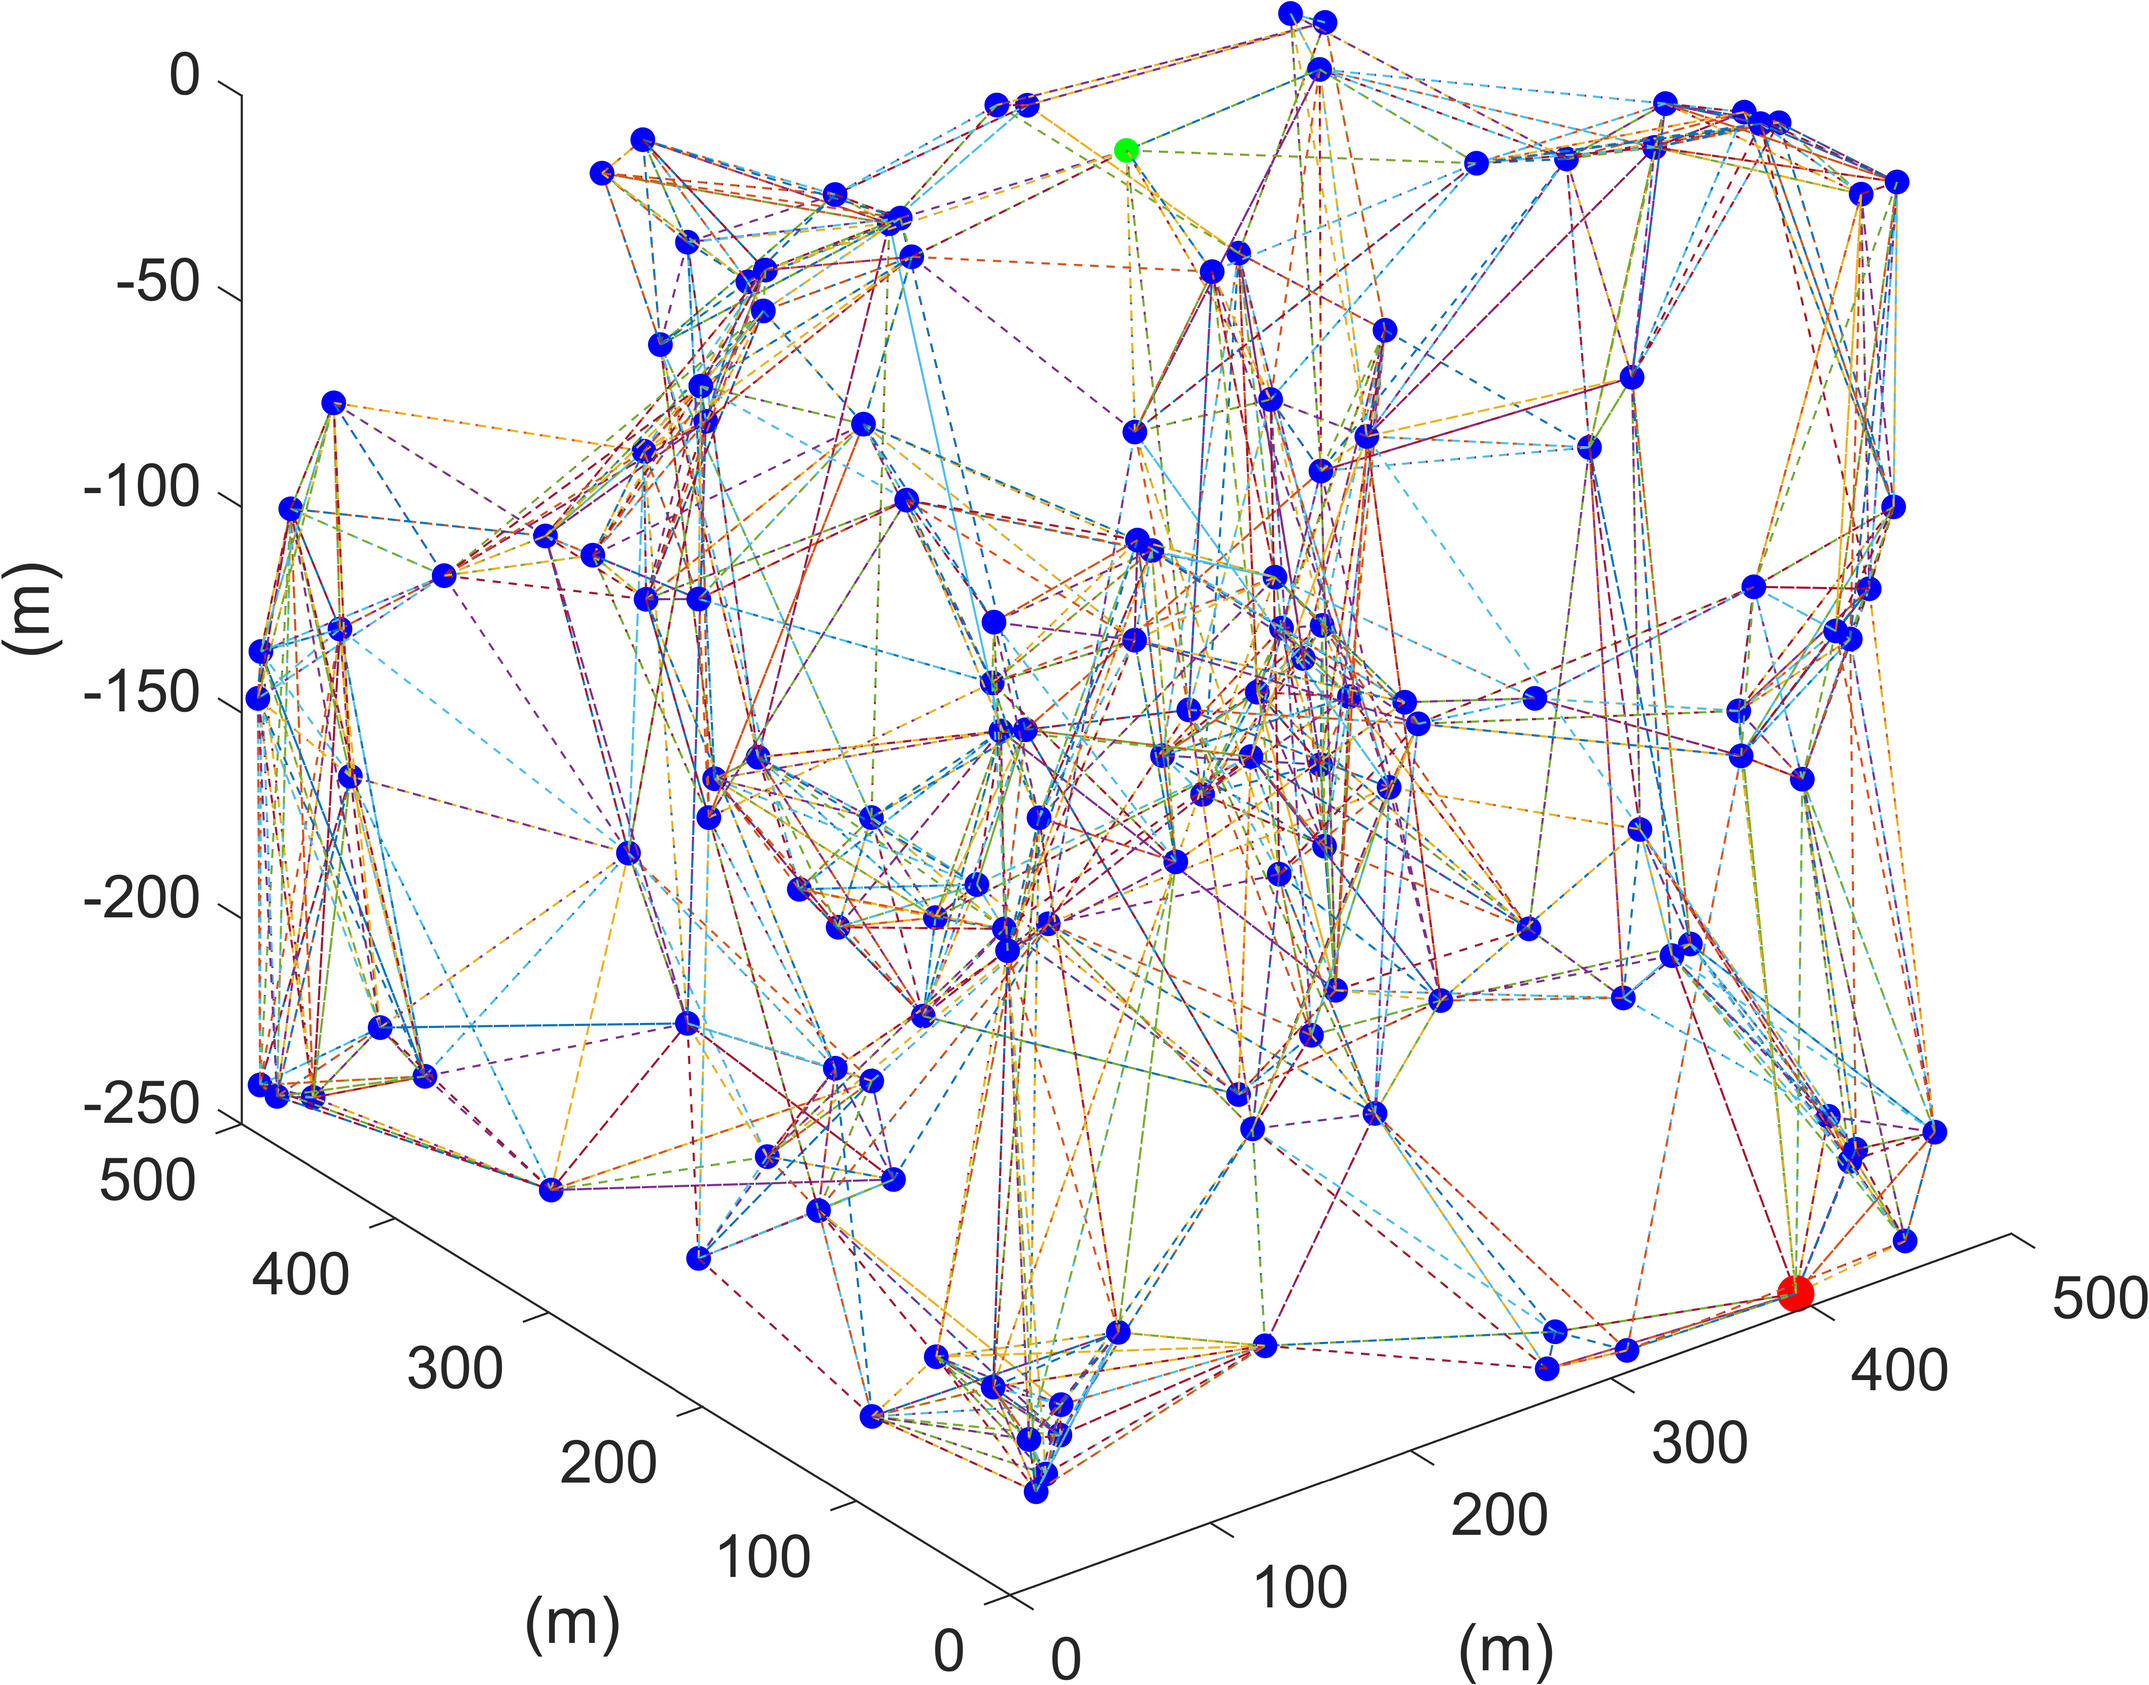
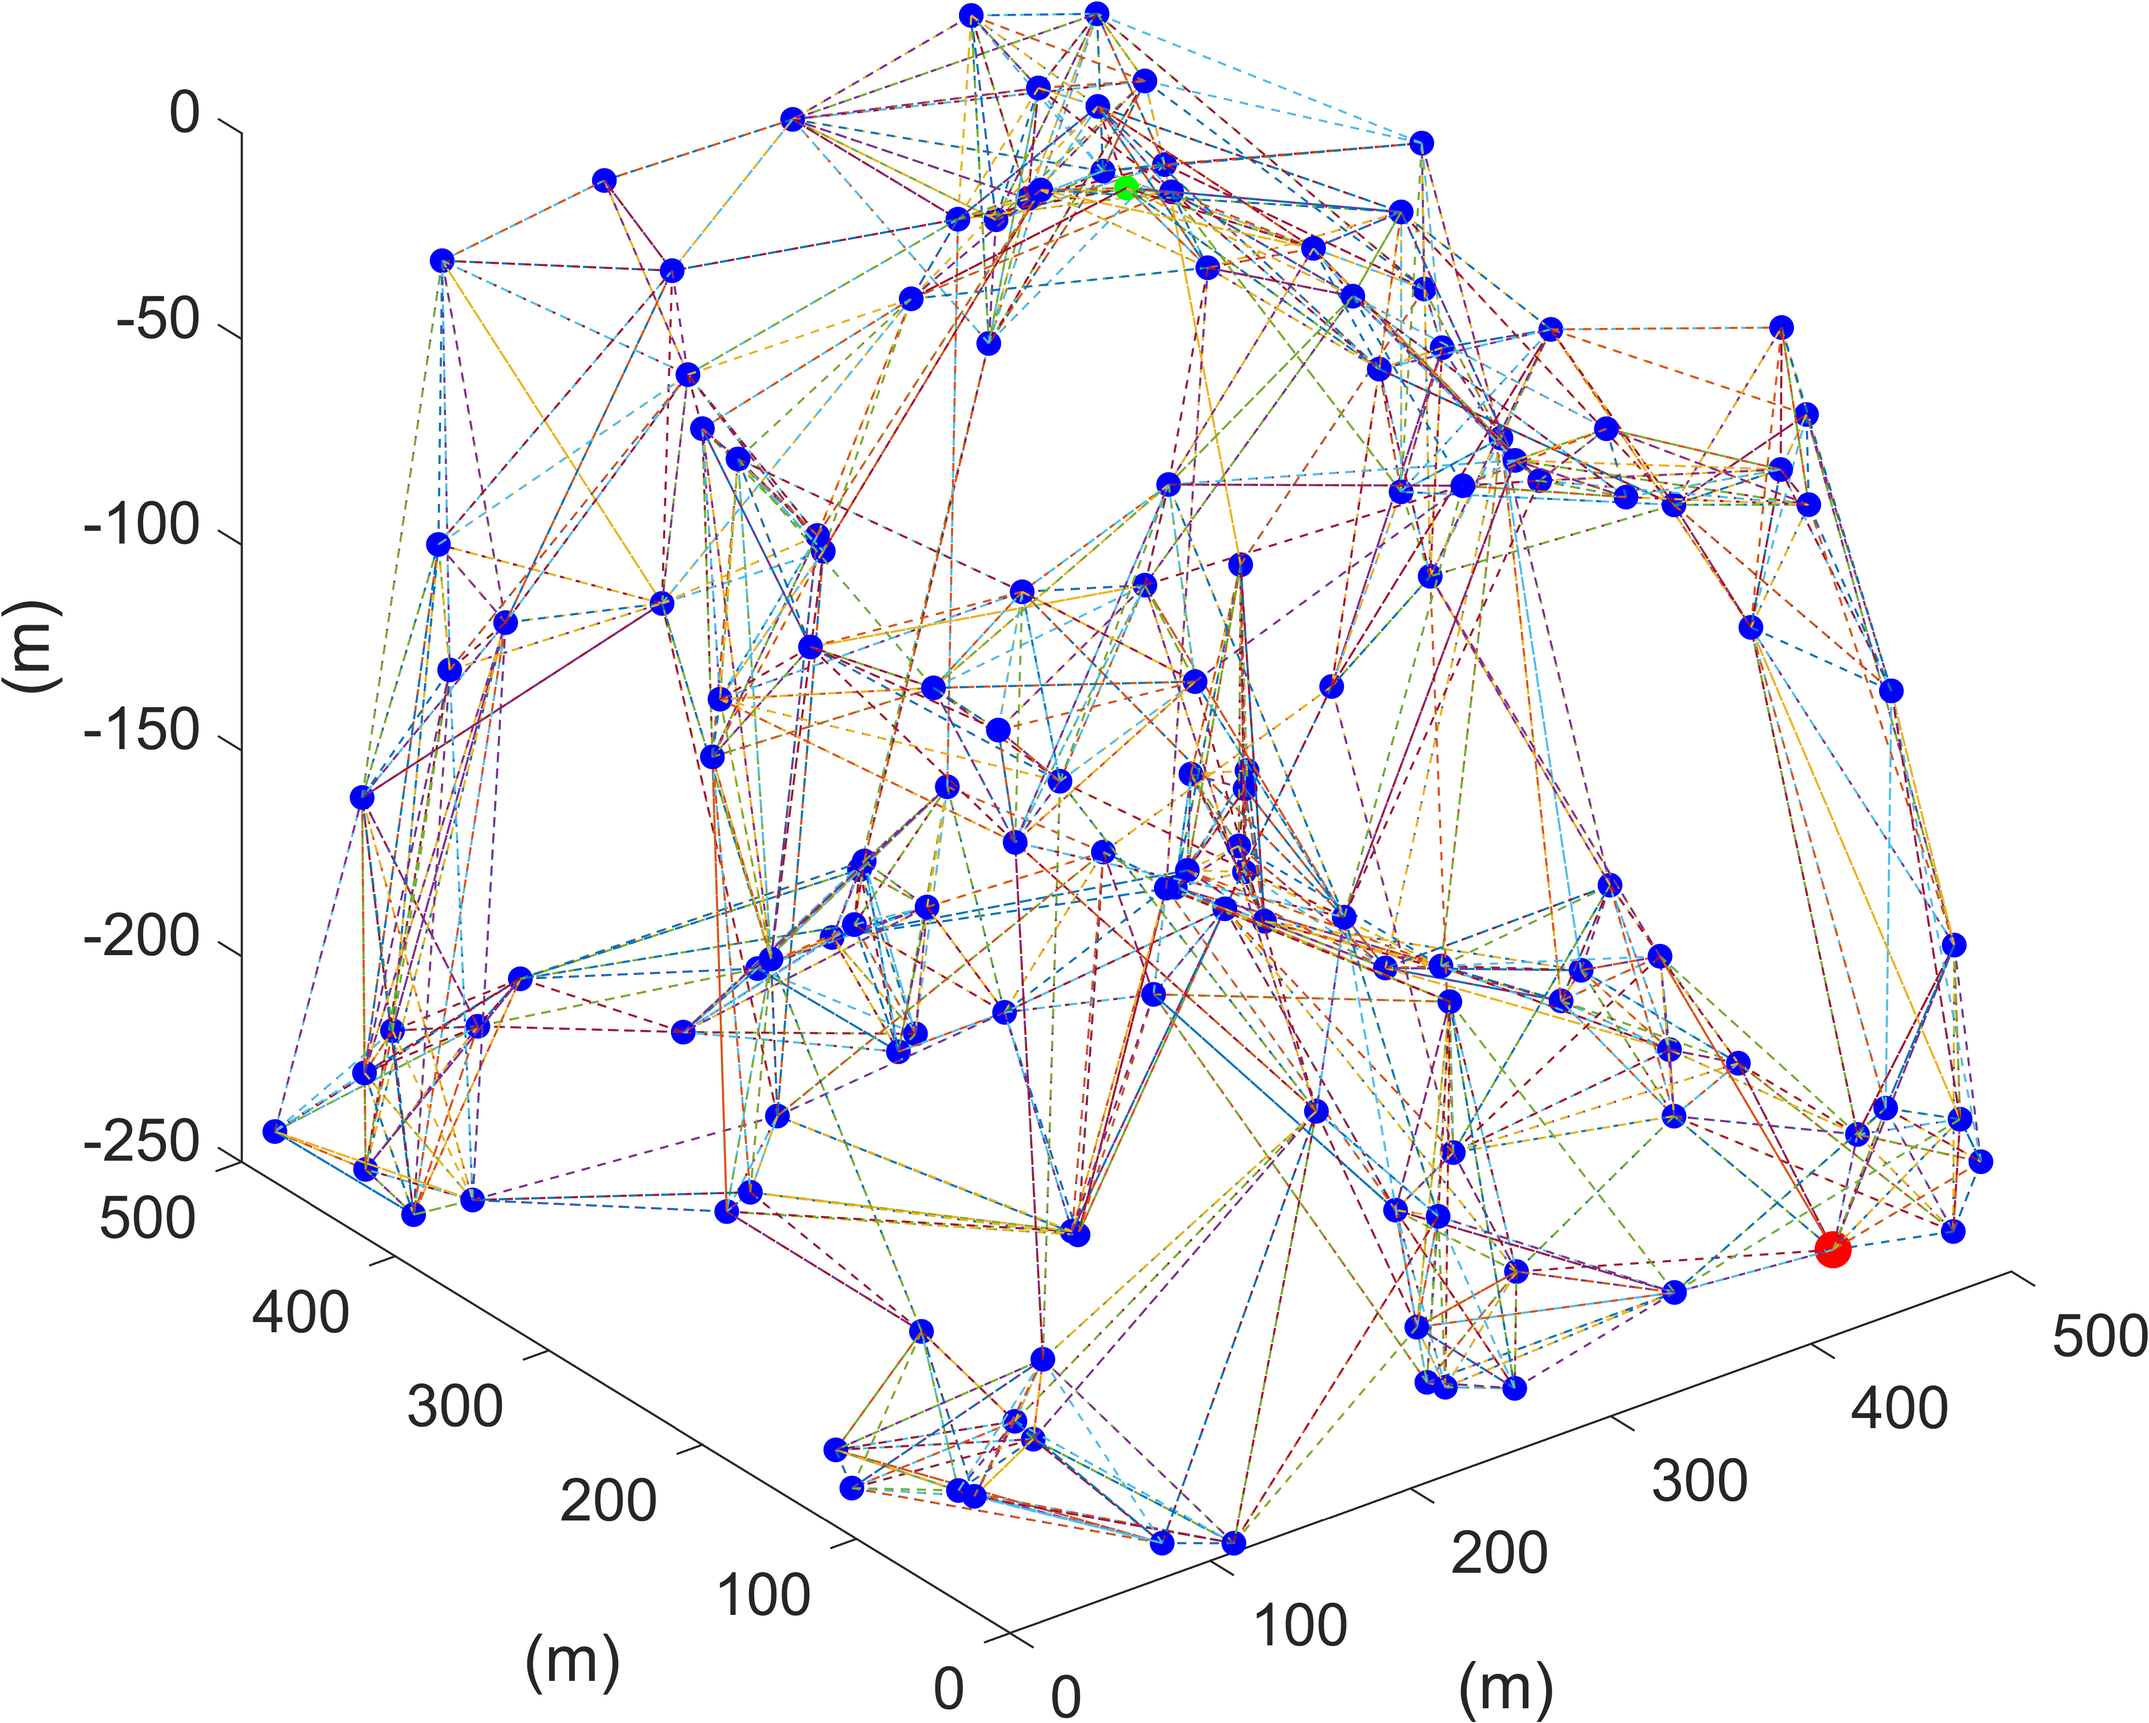
ADPR 1.1
* Added global parameters to finetune Algorithm 2 behavior.
* Improved Algorithm 3 behavior by adding two initial points before applying polynomial fitting

diff --git a/uan_adpr_main.m b/uan_adpr_main.m
@@ -2,6 +2,10 @@ clear
 clc
 close all
 
+javarmpath('.\bin');
+javaaddpath('.\bin');
+import uansim.*
+
 % load("pos_data.mat", "pos_data");
 % pos_data=pos_data(1,:);
 % pos_data=pos_data(:,1:1000);
@@ -9,32 +13,42 @@ close all
 
 load("good_pos_data.mat", "good_pos_data");
 pos_data=good_pos_data(2:4,1:100);
-pos_data=good_pos_data(2:4,2);
-
 dispTopology=false;
 debugSimulation=false;
+dispDetailedResults=false;
+dispSummaryResults=true;
+Networks=1:100;
 
-javarmpath('.\bin');
-javaaddpath('.\bin');
-import uansim.*
-
-algorithms={@updateForwardingProbability1,@updateForwardingProbability2,@updateForwardingProbability3};
+algorithms={@updateForwardingProbability1,@updateForwardingProbability2,@updateForwardingProbabilityPolynomialFitting};
 updateForwardingProbability=algorithms{3};
+global polynomialDegree
+polynomialDegree=4;
+global eta1
+global eta2
+K=0.5;
+eta1=K^2+0.1;
+eta2=eta1;
+
+
+for net= Networks   %Network #
+pos_data=good_pos_data(2:4,net);   %Network #4, #9 polyfit fails when degree>3
+                                %Network #11, #12 attack failed
 
 %   network_density number_of_nodes min_number_of_neighbors
 experiments = [
 ...    4	28	3 1
     5	47	4 0.9
+    8	75	7 0.5
+    15	140	9 0.3
 ...    6	57	5 1
 ...    7	66	6 1
-    8	75	7 0.5
 ...    9	85	8 1
-    15	140	9 0.3
 ];
 
 %Result columns
 D=[]; p=[]; attacks=[]; nodes=[]; src_deg=[]; genrtd=[]; sent=[];
 recved=[]; forwd=[]; pktcost=[]; e2edly=[]; fintim=[]; maxpktcost=[];
+masterResults= table(D, p, attacks, recved, forwd, pktcost, maxpktcost, e2edly, fintim);
 
 %Max # of attackers
 A=1;
@@ -42,20 +56,23 @@ A=1;
 % after each iteration, the forwarding probability is revised using the
 % algorithm defined by "updateForwardingProbability"
 
-iterations=20;
+iterations=30;
 
 for pi=1
-    % for each experiment
-    for ii = 1: size(pos_data,1) 
+    % for each density
+    for ii = 1: size(pos_data,1)
+
         %for each initial forwarding probability
         for pp = 0 %:0.1:1.0 % pi*experiments(ii,4); %:0.1:1.0
+            
             %for each number of attackers
-            for a  = 0:A  
+            for a  = 1:A  
                 %history of forwarding probability
                 past=[];
 
                 %number of valid topologies
                 n=0;
+                %for each topology
                 for k= 1:size(pos_data,2)
                     %filter out topologies with invalid nodes
                     if any(all(pos_data{ii,k}==[0,0,0],2)) 
@@ -81,7 +98,7 @@ for pi=1
                         sim.trafficParameters.channelBitRate=100000/8;
 
                         % Routing parameters
-                        sim.routingParameters.K = 0.8;
+                        sim.routingParameters.K = K;
                         sim.routingParameters.forwardingProbability = pp*ones(256,1);
                         sim.routingParameters.forwardingThreshold = 0;
                         sim.routingParameters.maximumForwardingDelay=1;
@@ -96,7 +113,7 @@ for pi=1
                         %transfer topology to simulator
                         createTopology(sim, pos_data{ii,k});
 
-                        if dispTopology && pi==1 && a==0 && pp==0 && it==1
+                        if dispTopology && pi==1 && a==1 && pp==0 
                             disp('sim.topology.sinkPos=new double[]')
                             t=sim.topology.sinkPos;
                             disp(['{',mat2str(t(1)),',',mat2str(t(2)),',',mat2str(t(3)),'};']);
@@ -116,6 +133,8 @@ for pi=1
                             showTopology(sim.topology.nodePositions, ...
                                 sim.topologyParameters.communicationRange, ...
                                 sim.topology.sourceNodes+1, false);
+                            set(gcf, 'NumberTitle', 'off', ...
+                                'Name', sprintf('Network #%d', net));
                             exportgraphics(gcf,['net',mat2str(experiments(ii,1)),'.png'],'Resolution',600)
                         end
                         d=experiments(mod(ii-1, length(experiments))+1,1);
@@ -181,18 +200,34 @@ for pi=1
                     fintim=[fintim;s_fintim];
                     maxpktcost=[maxpktcost;s_maxpktcost./s_recved];                
                 end
-            end
+%                disp(['Number of valid topologies = ' mat2str(n)])
+                % K=sim.routingParameters.K * ones(iterations,1);
+                results= table(D, p, attacks, recved, forwd, pktcost, maxpktcost, e2edly, fintim);
 
+                if dispDetailedResults
+                    disp(results)
+                end
+
+                if dispSummaryResults
+                    disp(['Net #' mat2str(net), ...
+                        '   , density=', mat2str(d) ...
+                        '   , earliest convergence=' mat2str(find(recved>=100*K-2,1))...
+                        '   , number of successes=' mat2str(sum(recved>=100*K-2))...
+                        '   , converged at p=' mat2str(p(end)) ...
+                        '   and r=' mat2str(recved(end)) ...
+                        '   repeated=' mat2str(sum(p==p(end)))...
+                        '   max r=' mat2str(max(recved))])
+                end
+                masterResults=[masterResults;results];  
+                D=[]; p=[]; attacks=[]; nodes=[]; src_deg=[]; genrtd=[]; sent=[];
+                recved=[]; forwd=[]; pktcost=[]; e2edly=[]; fintim=[]; maxpktcost=[];
+            end
         end
     end
 end
-disp(['Number of valid topologies = ' mat2str(n)])
-K=sim.routingParameters.K * ones(iterations,1);
-results= table(D, p, attacks, recved, forwd, pktcost, maxpktcost, e2edly, fintim);
-disp(results)
 
 % save("good_pos.mat", "good_pos");
-
+end
 
 
 function createTopology(sim, pos) 
@@ -347,38 +382,43 @@ function past=updateForwardingProbability1(sim, past, d)
     past=ts;
 end
 
-
 function past=updateForwardingProbability2(sim, past, d)
+    global eta1
+    global eta2
+
     if isempty(past)
         past=zeros(sim.topologyParameters.sourcesCount,1);
     end
     p = sim.routingParameters.forwardingProbability;
     r = sim.results.deliveryRatio;
-    past = [r, past];
+   past = [r, past];
     K=sim.routingParameters.K;
     for i=1:length(sim.topology.sourceNodes)
         j=sim.topology.sourceNodes(i)+1;
-        rs=max(r(i),mean(past(i,1:min([30,min(size(past,2))]))));
+%         ts=past(i);
         ts=p(j);
-        eta=0.25;
+        rs=r(i);
+        rs=max(r(i),mean(past(i,1:min([30,min(size(past,2))]))));
         if K-rs > 0.02 
             %Increase threat level
-            ts2 = (1 - eta*(K - rs))*ts + eta*(K - rs);
+            ts2 = (1 - eta1*(K - rs))*ts + eta1*(K - rs);
         elseif K-rs < -0.02 && ts>0 
             %Decrease threat level
-            ts2 = max([0, ts + 0.5 * (K - rs)]);
+            ts2 = max([0, ts + eta2 * (K - rs)]);
         elseif ts<0
             ts2=0;
         else
             ts2=ts;
         end
+%         p(j)=1-nthroot(1-ts2,d);
         p(j) = ts2;
+%         past(i)=ts2;
     end
     sim.routingParameters.forwardingProbability=p;
 end
 
-
-function [past]=updateForwardingProbability3(sim, past, d)
+function [past]=updateForwardingProbabilityPolynomialFitting(sim, past, d)
+    global polynomialDegree
     if isempty(past)
         past_p={};
         past_r={};
@@ -413,32 +453,45 @@ function [past]=updateForwardingProbability3(sim, past, d)
         %remove points that are too close to the new point
         p_p=past_p{i};
         p_r=past_r{i};
-        p_r=p_r(abs(p_p-p(j))>0.01);
+        p_r=p_r(abs(p_p-p(j))>0.01);        %Clean the series from the points that are too close to the most recent point
         p_p=p_p(abs(p_p-p(j))>0.01);
         
         %add the new points
         p_p = [p(j), p_p];   
         p_r = [r(i), p_r];
-        p_q = p_r./(p(j)+1/D);
+%         p_q = p_r./(p_p+1/D);  %estimate the network efficiency
+        p_q = p_r;  %estimate the network efficiency
         past_p{i}=p_p;
         past_r{i}=p_r;
 
-        %% polynomial degree 3
-        n = min(length(p_p)-1,3);
+        n = min(length(p_p)-1,polynomialDegree);
     
-        if r(i)<K && n==0
+        if n==0 % && r(i)<K 
             p(j)=0.5;
+        elseif n==1 % && r(i)<K 
+            p(j)=0.75;
+        elseif n==2 % && r(i)<K
+            p(j)=0.25;
         else
             poly = polyfit(p_p, p_r, n);
+            if false
+                figure
+                plot((0:0.05:1),polyval(poly,(0:0.05:1)))
+                hold on 
+                plot(p_p,p_r,'x')
+                title(['n=',mat2str(n)])
+            end
             %%solve poly-K==0
             xs=roots([poly(1:n),poly(n+1)-K]);
             %%solution must be in the interval [0,1]
             xs=xs(real(xs)==xs & xs>=0 & xs<=1);
 
             if ~isempty(xs)     %if solutions exists
-                p(j)=min(xs);   %take the smallest one
+                %p(j)=min(xs);   %take the smallest one
+                p(j)=mean([p(j),min(xs)]);   %move towards the smallest one
             else    %maximize delivery ratio
                 poly = polyfit(p_p, p_q, n);
+                
                 poly1=polyder(poly);
                 poly2=polyder(poly1);
                 xs=roots(poly1)';
